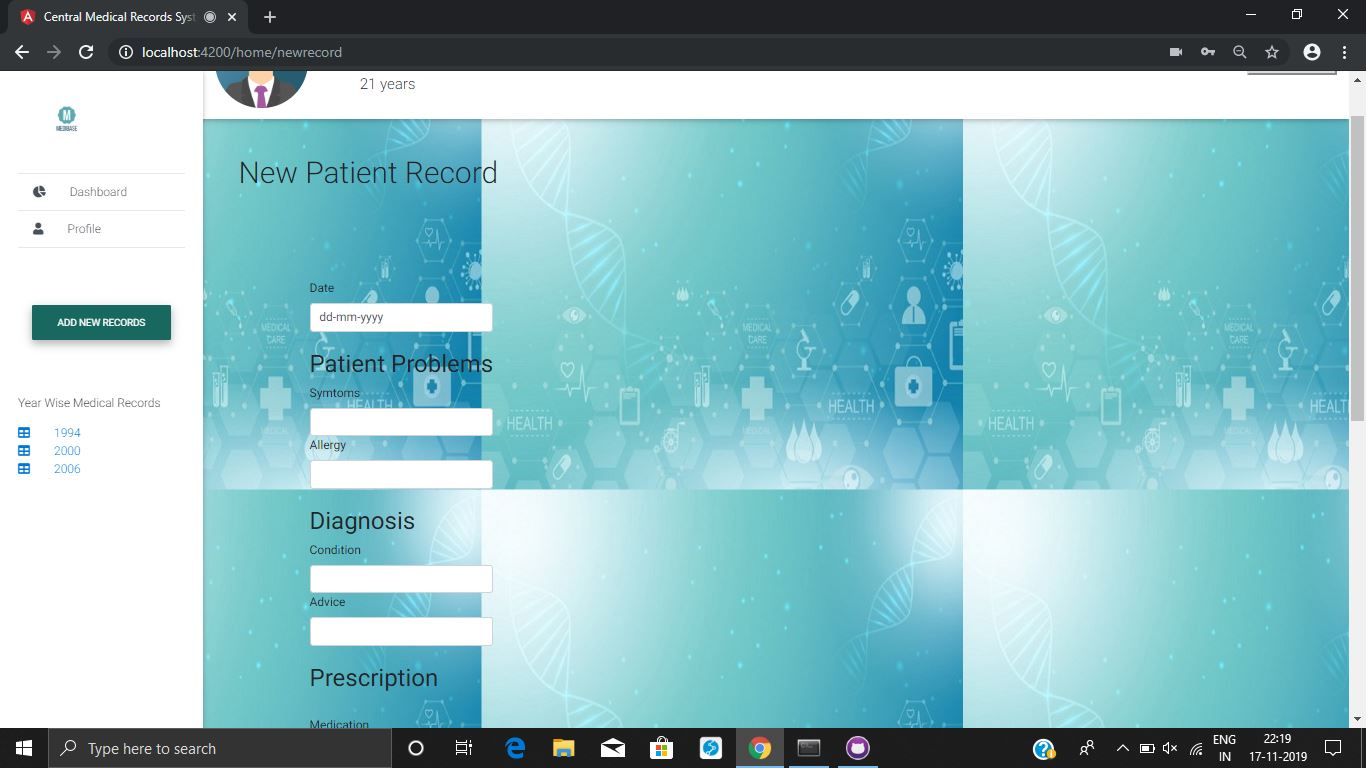
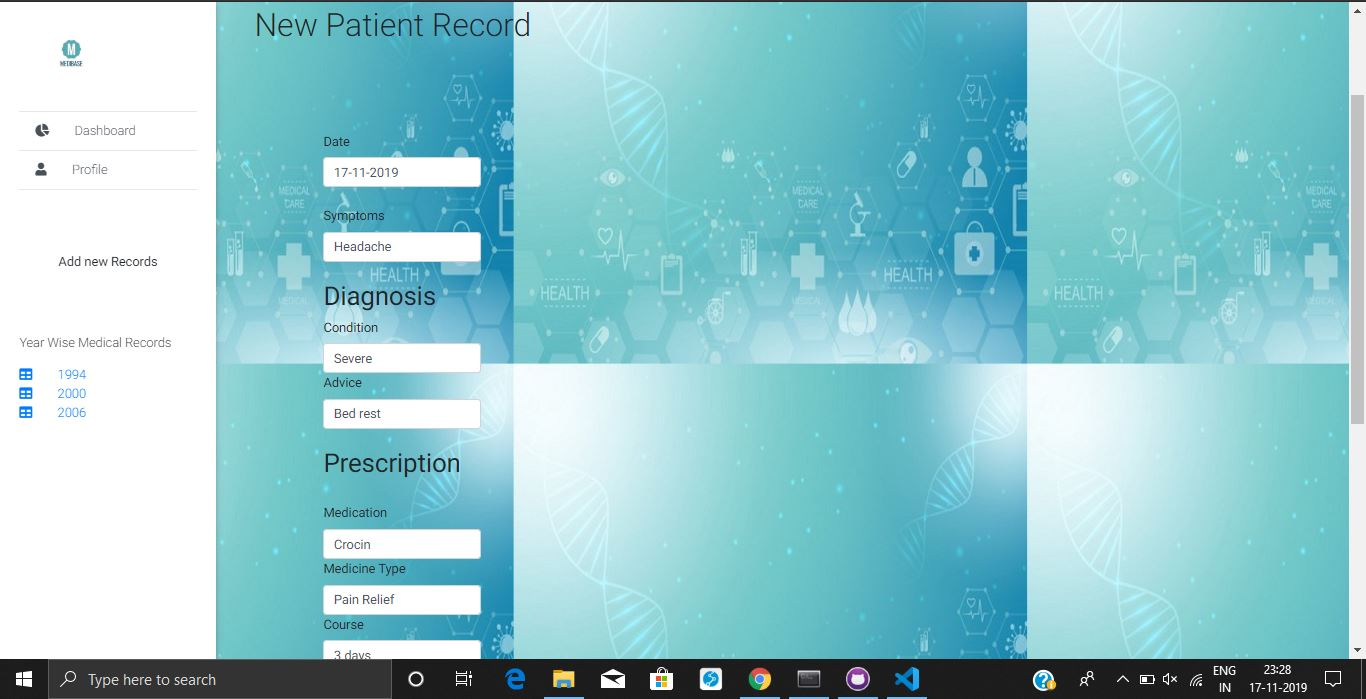
Minor changes

diff --git a/Admin-Dashboard-Template-Angular-Bootstrap-master/src/app/home/views/newrecord/newrecord.component.ts b/Admin-Dashboard-Template-Angular-Bootstrap-master/src/app/home/views/newrecord/newrecord.component.ts
@@ -8,13 +8,16 @@ import { NgForm } from '@angular/forms';
 })
 export class newRecordsComponent implements OnInit {
 
-
-  
+  allCourses : string[] = [];
+  allsymptoms : string[]=[];
+  allcdays:string[]=[];
+  allmedications:string[]=[];
+  alltypes:string[]=[];
   constructor() { }
   institutes = {
   date:'',
   symptoms:'',
-  allergy:'',
+  
   condition:'',
   advice:'',
   medication:'',
@@ -23,17 +26,26 @@ export class newRecordsComponent implements OnInit {
   cday:''
   
   
-  }
-  instituteLogins(instaForm: NgForm){
-  console.log(instaForm.value);
   
   }
-public append()
-{
+  instituteLogins(instaForm: NgForm){
+  
+  this.allCourses.push(instaForm.value["course"]);
+  this.allcdays.push(instaForm.value["cday"]);
+  this.allmedications.push(instaForm.value["medication"]);
+  this.alltypes.push(instaForm.value["type"]);
+  this.allsymptoms.push(instaForm.value["symptoms"]);
+  console.log(this.allCourses);
   this.institutes.cday="";
   this.institutes.medication="";
   this.institutes.course="";
   this.institutes.type="";
+  this.institutes.symptoms="";
+  }
+public append()
+{
+  
+  
 }
   ngOnInit() {
   }

diff --git a/Admin-Dashboard-Template-Angular-Bootstrap-master/src/app/home/views/newrecord/newrecord.component.html b/Admin-Dashboard-Template-Angular-Bootstrap-master/src/app/home/views/newrecord/newrecord.component.html
@@ -13,12 +13,10 @@
         <label > <strong>Date</strong> </label>
         <input type="date"   name="date" id="date"  class="form-control" [(ngModel)]="institutes.date">
         <br>
-        <h2> <strong> Patient Problems</strong></h2>
-        
-        <label><strong> Symtoms</strong> </label>
+               
+        <label><strong> Symptoms</strong> </label>
         <input type="text"  name="symtoms" id="symtoms"   class="form-control"[(ngModel)]="institutes.symtoms">
-        <label><strong>Allergy</strong>  </label>
-        <input type="text"  name="allergy" id="allergy"   class="form-control"[(ngModel)]="institutes.allergy">
+        
         <br>
         <h2><strong>Diagnosis</strong></h2>
         
@@ -45,7 +43,6 @@
         
                     </div>
                     <button id="record"  class="btn btn-primary" type="submit" >Add Record</button> </form>
-                    <br>
-                    <button id="add" (click)="append()" class="btn btn-primary"  >Add More Medication</button>                   
+                   
     </div>
   
